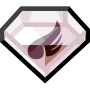
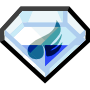
add dragon scale and remove toxic orb (#3553)

Changed region(s): [[0.0444, 0.1111, 0.9556, 0.8667]]

diff --git a/app/types/enum/Item.ts b/app/types/enum/Item.ts
@@ -84,7 +84,7 @@ export enum Item {
   MAGMARIZER = "MAGMARIZER",
   MACHO_BRACE = "MACHO_BRACE",
   LIGHT_BALL = "LIGHT_BALL",
-  TOXIC_ORB = "TOXIC_ORB",
+  DRAGON_SCALE = "DRAGON_SCALE",
   METRONOME = "METRONOME",
   EXPLORER_KIT = "EXPLORER_KIT",
   METAL_COAT = "METAL_COAT",
@@ -504,8 +504,8 @@ export const Berries: Item[] = [
 
 export const Tools: Item[] = [
   Item.LIGHT_BALL,
-  Item.TOXIC_ORB,
   Item.HARD_STONE,
+  Item.DRAGON_SCALE,
   Item.METAL_COAT,
   Item.AIR_BALLOON,
   Item.MACHO_BRACE,
@@ -530,7 +530,6 @@ export const Tools: Item[] = [
 export type Tool = (typeof Tools)[number]
 
 export const ArtificialItems: Tool[] = [
-  Item.TOXIC_ORB,
   Item.METAL_COAT,
   Item.MACHO_BRACE,
   Item.EXPLORER_KIT,
@@ -538,6 +537,7 @@ export const ArtificialItems: Tool[] = [
   Item.TINY_MUSHROOM,
   Item.ELECTIRIZER,
   Item.POKERUS_VIAL,
+  Item.COOKING_POT,
   Item.MAX_ELIXIR,
   Item.EXP_SHARE,
   Item.TERRAIN_EXTENDER
@@ -655,7 +655,6 @@ export const SynergyGemsBuried: SynergyGem[] = [
 ] as const
 
 export const ToolsBuried: Tool[] = [
-  Item.TOXIC_ORB,
   Item.HARD_STONE,
   Item.METAL_COAT,
   Item.EXPLORER_KIT,
@@ -666,7 +665,8 @@ export const ToolsBuried: Tool[] = [
   Item.ELECTIRIZER,
   Item.MAGMARIZER,
   Item.MAX_ELIXIR,
-  Item.EXP_SHARE
+  Item.EXP_SHARE,
+  Item.DRAGON_SCALE
 ]
 
 export const SynergyItems = [
@@ -681,7 +681,8 @@ export const SynergyItems = [
   Item.ICE_STONE,
   Item.MACHO_BRACE,
   Item.LIGHT_BALL,
-  Item.TOXIC_ORB,
+  Item.DRAGON_SCALE,
+  Item.POKERUS_VIAL,
   Item.METRONOME,
   Item.METAL_COAT,
   Item.AIR_BALLOON,
@@ -715,7 +716,8 @@ export const SynergyGivenByItem: Record<
   [Item.ICE_STONE]: Synergy.ICE,
   [Item.MACHO_BRACE]: Synergy.FIGHTING,
   [Item.LIGHT_BALL]: Synergy.LIGHT,
-  [Item.TOXIC_ORB]: Synergy.POISON,
+  [Item.DRAGON_SCALE]: Synergy.DRAGON,
+  [Item.POKERUS_VIAL]: Synergy.POISON,
   [Item.METRONOME]: Synergy.SOUND,
   [Item.METAL_COAT]: Synergy.STEEL,
   [Item.ELECTIRIZER]: Synergy.ELECTRIC,

diff --git a/app/core/effects/items.ts b/app/core/effects/items.ts
@@ -534,21 +534,6 @@ export const ItemEffects: { [i in Item]?: (Effect | (() => Effect))[] } = {
     })
   ],
 
-  [Item.TOXIC_ORB]: [
-    new OnItemGainedEffect((pokemon) => {
-      pokemon.addAttack(pokemon.baseAtk, pokemon, 0, false)
-      pokemon.status.triggerPoison(
-        60000,
-        pokemon as PokemonEntity,
-        pokemon as PokemonEntity
-      )
-    }),
-    new OnItemRemovedEffect((pokemon) => {
-      pokemon.addAttack(-pokemon.baseAtk, pokemon, 0, false)
-      pokemon.status.poisonCooldown = 0
-    })
-  ],
-
   [Item.POKERUS_VIAL]: [
     new OnItemGainedEffect((pokemon) => {
       pokemon.status.triggerPokerus(pokemon)

diff --git a/app/models/colyseus-models/synergies.ts b/app/models/colyseus-models/synergies.ts
@@ -1,4 +1,4 @@
-import { MapSchema } from "@colyseus/schema"
+import { MapSchema, SetSchema } from "@colyseus/schema"
 import { SynergyTriggers } from "../../config"
 import { IPokemon } from "../../types"
 import { SynergyGivenByItem } from "../../types/enum/Item"
@@ -195,7 +195,11 @@ export function addSynergiesGivenByItems(pkm: IPokemon) {
   pkm.items.forEach((item) => {
     const synergy = SynergyGivenByItem[item]
     if (synergy) {
-      pkm.types.add(synergy)
+      if (synergy === Synergy.DRAGON) {
+        pkm.types = new SetSchema<Synergy>([synergy, ...pkm.types])
+      } else {
+        pkm.types.add(synergy)
+      }
     }
   })
 }

diff --git a/app/config/game/items.ts b/app/config/game/items.ts
@@ -67,7 +67,7 @@ export const ItemStats: { [item in Item]?: { [stat in Stat]?: number } } = {
   [Item.MAGMARIZER]: { [Stat.ATK]: 5 },
   [Item.MACHO_BRACE]: { [Stat.ATK]: 15, [Stat.SPEED]: -15 },
   [Item.LIGHT_BALL]: { [Stat.AP]: 75 },
-  [Item.TOXIC_ORB]: { [Stat.SHIELD]: 15, [Stat.SPE_DEF]: 4 },
+  [Item.DRAGON_SCALE]: { [Stat.DEF]: 5, [Stat.SPE_DEF]: 5 },
   [Item.METRONOME]: { [Stat.PP]: 5 },
   [Item.METAL_COAT]: { [Stat.DEF]: 10, [Stat.SPE_DEF]: 10 },
   [Item.AIR_BALLOON]: { [Stat.SPEED]: 30 },

diff --git a/app/core/pokemon-state.ts b/app/core/pokemon-state.ts
@@ -875,14 +875,6 @@ export default abstract class PokemonState {
     ) {
       pokemon.status.triggerBurn(60000, pokemon, pokemon)
     }
-
-    if (
-      pokemon.items.has(Item.TOXIC_ORB) &&
-      pokemon.status.poisonStacks === 0 &&
-      pokemon.action !== PokemonActionState.HOP
-    ) {
-      pokemon.status.triggerPoison(60000, pokemon, pokemon)
-    }
   }
 
   updateEachSecond(pokemon: PokemonEntity, board: Board) {

diff --git a/app/core/pokemon-entity.ts b/app/core/pokemon-entity.ts
@@ -670,7 +670,11 @@ export class PokemonEntity extends Schema implements IPokemonEntity {
     }
 
     if (type && !this.types.has(type)) {
-      this.types.add(type)
+      if (type === Synergy.DRAGON) {
+        this.types = new SetSchema<Synergy>([type, ...this.types])
+      } else {
+        this.types.add(type)
+      }
       this.simulation.applySynergyEffects(this, type)
     }
   }

diff --git a/db-commands/6.7/update-items.ts b/db-commands/6.7/update-items.ts
@@ -9,7 +9,8 @@ const itemsToReplace = new Map<string, Item>([
   ["CHOICE_SCARF", Item.LOADED_DICE],
   ["LUCKY_EGG", Item.HEAVY_DUTY_BOOTS],
   ["ROTOM_PHONE", Item.SPELL_TAG],
-  ["FLUFFY_TAIL", Item.SAFETY_GOGGLES]
+  ["FLUFFY_TAIL", Item.SAFETY_GOGGLES],
+  ["TOXIC_ORB", Item.POKERUS_VIAL]
 ])
 
 async function main() {

diff --git a/app/public/dist/client/changelog/patch-6.7.md b/app/public/dist/client/changelog/patch-6.7.md
@@ -35,6 +35,7 @@
 
 - Artificial items have been renamed Tools. Some tools are now exclusive to Electivire town encounter.
 - Removed Rotom Phone item, due to the rework of Rotom.
+- Removed Toxic Orb
 - New item: Spell Tag: Gives GHOST synergy. When the holder dies, curses its attacker to be KO'd in 9 seconds.
 - Fluffy Tail is renamed Safety Goggles. In addition to its previous effect, it now also grants immunity to sandstorm damage.
 - Choice Scarf is renamed Loaded Dice. Now gives +30 Luck as base stat. Attacks have ~~100~~ 50% chance to bounce to a random enemy for ~~50~~ 100% of the attack damage.
@@ -42,6 +43,8 @@
 - X-Ray Vision has a new icon
 - Electirizer now gives Electric type. Removed PP burn on triple attacks.
 - Magmarizer now gives Fire type. Base stat: Attack 3 → 5 New effect: The holder doesn't suffer from Burn. Instead, it gains 30 Speed when it is affected by Burn.
+- Pokerus Vial now gives Poison type.
+- New tool: Dragon Scale: Gives DRAGON synerg as first synergy. +5 def/spe def.
 - New tool: Terrain extender: At the start of the fight, holder gains either Electric Field, Grass Field, Psychic Field or Fairy Field based on its synergies. When casting its ability, spread the field effect to all allies sharing the field's synergy.
 - Added new synergy gems for all synergies (except Baby). These gems cannot be found buried in the ground, but can be obtained from Sableye encounter.
 - Protective pads now also protects against fighting synergy throws
